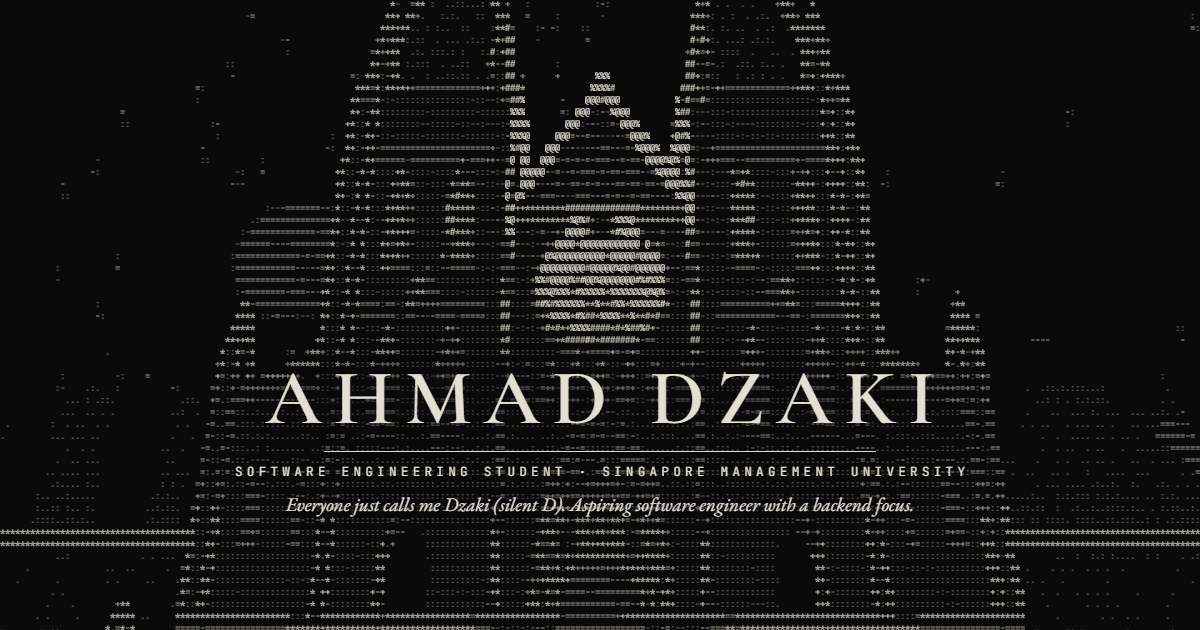
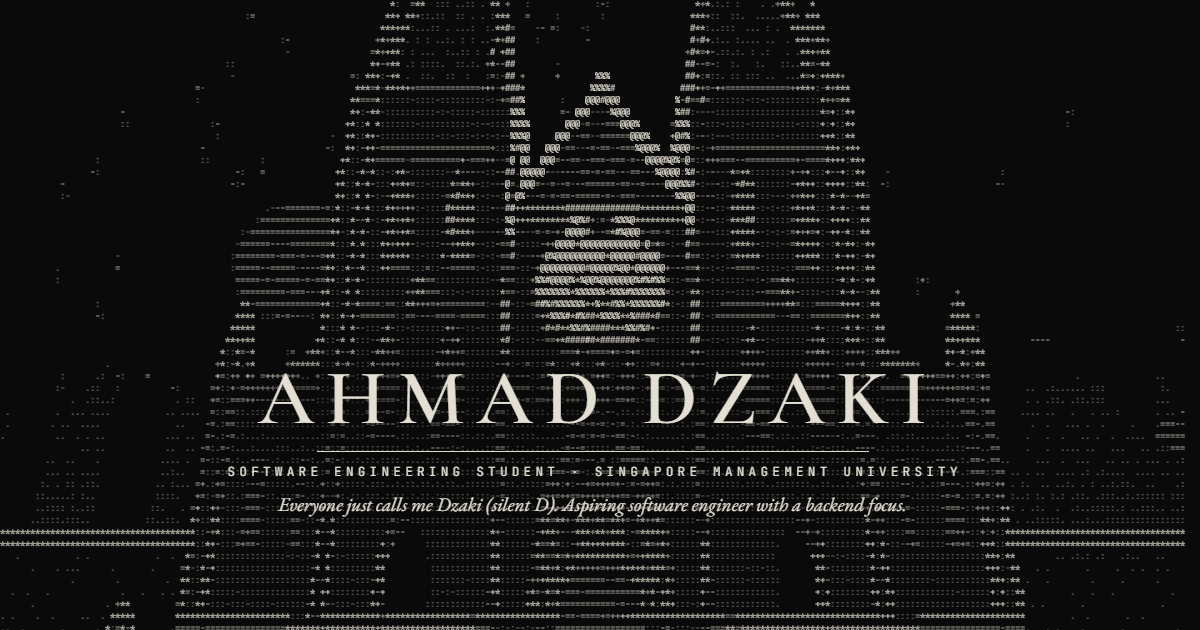
fix: play the entrance on every load; only a key press or click skips it
It used to play once per tab session and be skipped by any scroll. Browsers
that restore tabs kept that memory, so the entrance never returned.

diff --git a/src/scripts/hero.ts b/src/scripts/hero.ts
@@ -73,6 +73,7 @@ export function startHero(el: HeroElements, hooks: HeroHooks, opts: HeroOptions)
 
   function land(natural: boolean): void {
     landed = true;
+    document.documentElement.classList.remove('entering');
     el.hero.classList.add('in');
     window.setTimeout(() => el.hint.classList.add('in'), natural ? (ENTRANCE.hintAt - ENTRANCE.nameAt) * 1000 : 300);
     if (natural && !reduce) {
@@ -221,10 +222,14 @@ export function startHero(el: HeroElements, hooks: HeroHooks, opts: HeroOptions)
     myn = (e.clientY / window.innerHeight) * 2 - 1;
     hasMouse = e.pointerType === 'mouse';
   });
-  window.addEventListener('wheel', () => { cancelAuto(); skip(); }, { passive: true });
-  window.addEventListener('touchstart', () => { cancelAuto(); skip(); }, { passive: true });
+  // Scrolling takes over from the automatic descent, but never skips the entrance: people scroll
+  // the moment a page loads, and would lose the entrance without ever seeing it. Only a deliberate
+  // click, tap or key press skips it (the page does not scroll while it plays).
+  window.addEventListener('wheel', cancelAuto, { passive: true });
+  window.addEventListener('touchstart', cancelAuto, { passive: true });
   window.addEventListener('pointerdown', () => skip());
   window.addEventListener('keydown', e => {
+    if (['Shift', 'Control', 'Alt', 'Meta', 'CapsLock', 'Tab'].includes(e.key) || /^F\d+$/.test(e.key)) return;
     if (!landed) { skip(); return; }
     if (window.scrollY < window.innerHeight * 0.2 && ['Enter', ' ', 'ArrowDown'].includes(e.key)) {
       e.preventDefault();
@@ -238,7 +243,13 @@ export function startHero(el: HeroElements, hooks: HeroHooks, opts: HeroOptions)
   const fonts = document.fonts?.load ? document.fonts.load(`10px ${FONT}`) : Promise.resolve();
   const begin = () => {
     rebuild();
-    if (!opts.skip && !reduce) t0 = performance.now();
+    if (!opts.skip && !reduce) {
+      t0 = performance.now();
+      // hold the page still while the entrance plays; released when the name lands, or after
+      // 12 seconds whatever happens, so a fault can never leave the page stuck
+      document.documentElement.classList.add('entering');
+      window.setTimeout(() => document.documentElement.classList.remove('entering'), 12_000);
+    }
     last = performance.now();
     requestAnimationFrame(tick);
   };

diff --git a/e2e/site.spec.ts b/e2e/site.spec.ts
@@ -242,16 +242,36 @@ test('reduced motion: name shows at once and content is reachable', async ({ pag
   await expect(page.locator('#attributes .tname', { hasText: /^Python$/ })).toBeVisible();
 });
 
-test('the entrance plays once per visit', async ({ page }) => {
+test('the entrance plays on every load, and only a key or click skips it', async ({ page, isMobile }) => {
   await page.goto('./');
   await ready(page);
-  await expect(page.locator('#hero')).not.toHaveClass(/\bin\b/);
+  await expect(page.locator('#hero')).not.toHaveClass(/in/);
   await expect(page.locator('#skip')).toBeVisible();
-  await expect(page.locator('#hero.in')).toBeVisible({ timeout: 12_000 });
+
+  // scrolling neither skips the entrance nor moves the page
+  if (!isMobile) {
+    await page.mouse.wheel(0, 900);
+    await page.waitForTimeout(600);
+    await expect(page.locator('#hero')).not.toHaveClass(/in/);
+    expect(await page.evaluate(() => window.scrollY)).toBe(0);
+  }
+  // a bare modifier key does not skip it either
+  await page.keyboard.press('Shift');
+  await page.waitForTimeout(300);
+  await expect(page.locator('#hero')).not.toHaveClass(/in/);
+
+  // a real key press does, and the page can scroll again
+  await page.keyboard.press('a');
+  await expect(page.locator('#hero.in')).toBeVisible({ timeout: 1500 });
   await expect(page.locator('#skip')).toBeHidden();
+  await expect(page.locator('html')).not.toHaveClass(/entering/);
+
+  // it plays again on the next load
   await page.reload();
   await ready(page);
-  await expect(page.locator('#hero.in')).toBeVisible({ timeout: 1500 });
+  await page.waitForTimeout(800);
+  await expect(page.locator('#hero')).not.toHaveClass(/in/);
+  await expect(page.locator('#hero.in')).toBeVisible({ timeout: 12_000 });
 });
 
 test('the about text appears in the hero and on the Journey tab', async ({ page }) => {

diff --git a/src/scripts/main.ts b/src/scripts/main.ts
@@ -17,11 +17,9 @@ const audio = createAudio();
 const inventory = initInventory(invEl, { reduce, onSelect: () => audio.chime() });
 const deep = parseHash(location.hash, inventory.items);
 
-/** The entrance plays once per visit; a refresh or a return in the same tab goes straight to the hero. */
-const visit = {
-  seen(): boolean { try { return sessionStorage.getItem('entered') === '1'; } catch { return false; } },
-  mark(): void { try { sessionStorage.setItem('entered', '1'); } catch { /* storage unavailable: replay next time */ } },
-};
+// An earlier version remembered that the entrance had played and skipped it afterwards. Browsers
+// that restore tabs kept that memory indefinitely, so the entrance never came back. Clear it.
+try { sessionStorage.removeItem('entered'); } catch { /* storage unavailable */ }
 
 startHero(
   {
@@ -31,12 +29,13 @@ startHero(
     inv: invEl,
   },
   {
-    onLand: natural => { visit.mark(); if (natural) audio.bell(); },
+    onLand: natural => { if (natural) audio.bell(); },
     onNave: () => audio.door(),
     onArrive: () => inventory.open(),
   },
   {
-    reduce, skip: deep !== null || visit.seen(), frozenT: num('t'), sOverride: num('s'),
+    // the entrance plays on every load; only a link straight to a tab or project skips it
+    reduce, skip: deep !== null, frozenT: num('t'), sOverride: num('s'),
     tab: () => inventory.route().tab,
     perf: qs.has('perf'),
   },

diff --git a/src/styles/global.css b/src/styles/global.css
@@ -9,7 +9,9 @@
   --mono: 'JetBrains Mono', ui-monospace, monospace;
 }
 * { box-sizing: border-box; margin: 0; padding: 0; }
-html { background: var(--bg); }
+html { background: var(--bg); scrollbar-gutter: stable; }
+/* the page does not scroll while the entrance plays */
+html.entering { overflow: hidden; }
 body { color: var(--bone); font-family: var(--reading); overflow-x: hidden; }
 a { color: inherit; }
 a:focus-visible, button:focus-visible { outline: 2px solid var(--bone); outline-offset: 3px; }

diff --git a/docs/superpowers/specs/2026-11-10-portfolio-design.md b/docs/superpowers/specs/2026-11-10-portfolio-design.md
@@ -69,7 +69,7 @@ Characters come from the ramp ` .:-=+*#%@` only, so brightness maps to character
 
 ### Entrance sequence
 
-Plays once per visit, about 8 seconds: a refresh, or a return in the same browser tab, goes straight to the finished hero. While it plays, a small "PRESS ANY KEY TO SKIP" line ("TAP TO SKIP" on touch screens) sits at the bottom. The camera starts high and cranes down the building.
+Plays on every page load, about 8 seconds; only a link straight to a tab or project skips it. (An earlier version played it once per visit, but browsers that restore tabs kept that memory, so it never came back.) While it plays the page does not scroll, and a small "PRESS ANY KEY TO SKIP" line ("TAP TO SKIP" on touch screens) sits at the bottom. A key press, click or tap skips it; scrolling does not, because people scroll the moment a page loads and would lose it unseen. The camera starts high and cranes down the building.
 
 | Time | Event |
 |---|---|
